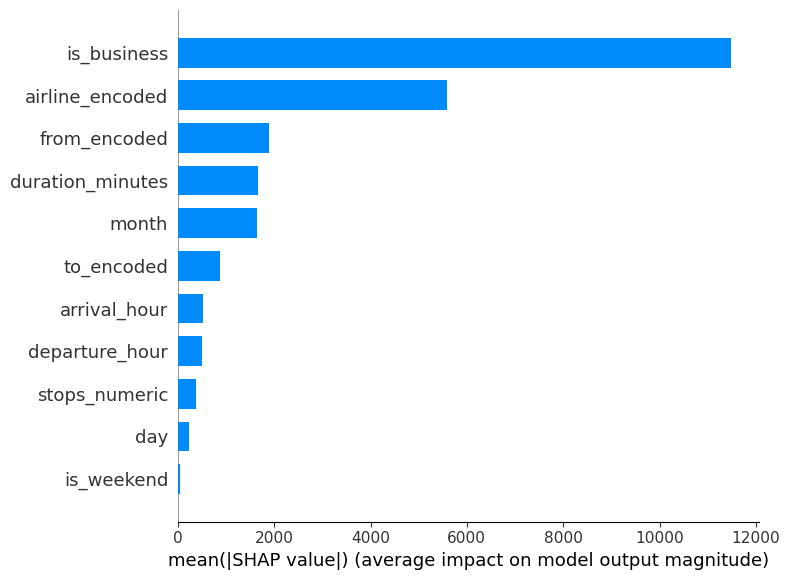
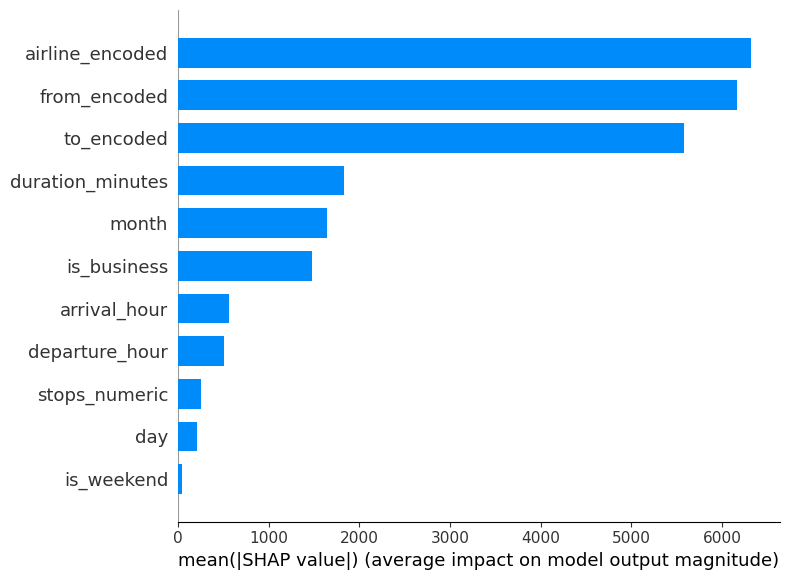
upload new changes

diff --git a/tests/test_trainer.py b/tests/test_trainer.py
@@ -1,15 +1,45 @@
-# tests/test_trainer.py
-
 import numpy as np
 import pandas as pd
 import pytest
-
+from unittest.mock import MagicMock, patch
 from flight_predictor.trainer import ModelTrainer
 
 
+# ── Fake config module 
+# Simulates what configs.lightgbm would provide
+# This lets us test ModelTrainer without needing real config files
+
+class FakeModel:
+    """Minimal model that records fit calls and returns fixed predictions."""
+
+    def __init__(self):
+        self.fitted = False
+
+    def fit(self, X, y):
+        self.fitted = True
+        return self
+
+    def predict(self, X):
+        # always predict 5000.0 — fixed value we control
+        return np.full(len(X), 5000.0)
+
+
+def fake_build_model(trial):
+    """Fake build_model — ignores trial params, returns FakeModel."""
+    return FakeModel()
+
+
+def fake_fit_model(model, X_train, y_train, X_val, y_val):
+    """Fake fit_model — calls fit and returns model."""
+    model.fit(X_train, y_train)
+    return model
+
+
+# ── Fixtures 
+
 @pytest.fixture
 def small_data():
-    """Small but realistic data to train a quick LightGBM model."""
+    """200 rows of random but realistic flight features."""
     np.random.seed(42)
     n = 200
 
@@ -29,90 +59,152 @@ def small_data():
 
     y = pd.Series(np.random.uniform(1000, 120000, n))
 
-    # split into train and val
     X_train, X_val = X.iloc[:160], X.iloc[160:]
     y_train, y_val = y.iloc[:160], y.iloc[160:]
 
     return X_train, X_val, y_train, y_val
 
 
-def test_model_exists_after_training(small_data, tmp_path):
[email redacted]
+def fake_config():
+    """A mock config module with build_model and fit_model."""
+    config = MagicMock()
+    config.build_model.side_effect = fake_build_model
+    config.fit_model.side_effect = fake_fit_model
+    return config
+
+
[email redacted]
+def trainer(fake_config):
+    """ModelTrainer with lightgbm name but fake config injected."""
+    with patch("importlib.import_module", return_value=fake_config):
+        t = ModelTrainer(model_name="lightgbm", models_dir="/tmp/test_models")
+    return t
+
+
+# ── __init__ tests 
+
+def test_unknown_model_raises_value_error():
+    with pytest.raises(ValueError, match="Unknown model"):
+        ModelTrainer(model_name="random_forest")
+
+
+def test_known_models_do_not_raise():
+    for name in ["lightgbm", "xgboost", "catboost", "linear"]:
+        with patch("importlib.import_module", return_value=MagicMock()):
+            trainer = ModelTrainer(model_name=name)
+            assert trainer.model_name == name
+
+
+def test_initial_state_is_none(trainer):
+    assert trainer.model is None
+    assert trainer.best_params is None
+    assert trainer.best_trial is None
+
+
+# ── train() tests 
+
+def test_model_exists_after_training(trainer, small_data):
     X_train, X_val, y_train, y_val = small_data
-    trainer = ModelTrainer(models_dir=str(tmp_path))
-    trainer.train(X_train, y_train, X_val, y_val)
+    with patch("mlflow.start_run"):
+        trainer.train(X_train, y_train, X_val, y_val)
     assert trainer.model is not None
 
 
-def test_best_params_exist_after_training(small_data, tmp_path):
+def test_best_params_exist_after_training(trainer, small_data):
     X_train, X_val, y_train, y_val = small_data
-    trainer = ModelTrainer(models_dir=str(tmp_path))
-    trainer.train(X_train, y_train, X_val, y_val)
+    with patch("mlflow.start_run"):
+        trainer.train(X_train, y_train, X_val, y_val)
     assert trainer.best_params is not None
     assert isinstance(trainer.best_params, dict)
 
 
-def test_best_params_has_correct_keys(small_data, tmp_path):
+def test_best_trial_exists_after_training(trainer, small_data):
     X_train, X_val, y_train, y_val = small_data
-    trainer = ModelTrainer(models_dir=str(tmp_path))
-    trainer.train(X_train, y_train, X_val, y_val)
-    expected_keys = [
-        "learning_rate", "max_depth", "num_leaves",
-        "subsample", "colsample_bytree", "reg_alpha", "reg_lambda"
-    ]
-    for key in expected_keys:
-        assert key in trainer.best_params
+    with patch("mlflow.start_run"):
+        trainer.train(X_train, y_train, X_val, y_val)
+    assert trainer.best_trial is not None
 
 
-def test_model_can_predict_after_training(small_data, tmp_path):
+def test_best_params_matches_best_trial_params(trainer, small_data):
     X_train, X_val, y_train, y_val = small_data
-    trainer = ModelTrainer(models_dir=str(tmp_path))
-    trainer.train(X_train, y_train, X_val, y_val)
+    with patch("mlflow.start_run"):
+        trainer.train(X_train, y_train, X_val, y_val)
+    assert trainer.best_params == trainer.best_trial.params
+
+
+# ── predict tests 
+
+def test_model_can_predict_after_training(trainer, small_data):
+    X_train, X_val, y_train, y_val = small_data
+    with patch("mlflow.start_run"):
+        trainer.train(X_train, y_train, X_val, y_val)
     preds = trainer.model.predict(X_val)
     assert len(preds) == len(X_val)
 
 
-def test_predictions_are_positive(small_data, tmp_path):
+def test_predictions_are_positive(trainer, small_data):
     X_train, X_val, y_train, y_val = small_data
-    trainer = ModelTrainer(models_dir=str(tmp_path))
-    trainer.train(X_train, y_train, X_val, y_val)
+    with patch("mlflow.start_run"):
+        trainer.train(X_train, y_train, X_val, y_val)
     preds = trainer.model.predict(X_val)
     assert (preds > 0).all()
 
 
-def test_model_saved_to_disk(small_data, tmp_path):
+# ── save() / load() tests 
+
+def test_default_filename_uses_model_name(trainer, small_data, tmp_path):
     X_train, X_val, y_train, y_val = small_data
-    trainer = ModelTrainer(models_dir=str(tmp_path))
-    trainer.train(X_train, y_train, X_val, y_val)
+    trainer.models_dir = tmp_path
+    with patch("mlflow.start_run"):
+        trainer.train(X_train, y_train, X_val, y_val)
     trainer.save()
-    assert (tmp_path / "tuned_lgb_model.joblib").exists()
+    assert (tmp_path / "lightgbm_model.joblib").exists()
 
 
-def test_model_loaded_from_disk(small_data, tmp_path):
+def test_custom_filename_respected(trainer, small_data, tmp_path):
     X_train, X_val, y_train, y_val = small_data
+    trainer.models_dir = tmp_path
+    with patch("mlflow.start_run"):
+        trainer.train(X_train, y_train, X_val, y_val)
+    trainer.save(filename="my_custom_model.joblib")
+    assert (tmp_path / "my_custom_model.joblib").exists()
 
-    # train and save
-    trainer = ModelTrainer(models_dir=str(tmp_path))
-    trainer.train(X_train, y_train, X_val, y_val)
+
+def test_models_dir_created_if_missing(trainer, small_data, tmp_path):
+    X_train, X_val, y_train, y_val = small_data
+    trainer.models_dir = tmp_path / "does" / "not" / "exist"
+    with patch("mlflow.start_run"):
+        trainer.train(X_train, y_train, X_val, y_val)
+    trainer.save()
+    assert trainer.models_dir.exists()
+
+
+def test_model_loaded_from_disk(trainer, small_data, tmp_path):
+    X_train, X_val, y_train, y_val = small_data
+    trainer.models_dir = tmp_path
+    with patch("mlflow.start_run"):
+        trainer.train(X_train, y_train, X_val, y_val)
     trainer.save()
 
     # load into a brand new trainer instance
-    new_trainer = ModelTrainer(models_dir=str(tmp_path))
+    with patch("importlib.import_module", return_value=trainer.config):
+        new_trainer = ModelTrainer(model_name="lightgbm", models_dir=str(tmp_path))
     new_trainer.load()
-
     assert new_trainer.model is not None
 
 
-def test_loaded_model_predictions_match(small_data, tmp_path):
+def test_loaded_model_predictions_match(trainer, small_data, tmp_path):
     X_train, X_val, y_train, y_val = small_data
+    trainer.models_dir = tmp_path
+    with patch("mlflow.start_run"):
+        trainer.train(X_train, y_train, X_val, y_val)
 
-    # train, save, get original predictions
-    trainer = ModelTrainer(models_dir=str(tmp_path))
-    trainer.train(X_train, y_train, X_val, y_val)
     original_preds = trainer.model.predict(X_val)
     trainer.save()
 
-    # load and predict again
-    new_trainer = ModelTrainer(models_dir=str(tmp_path))
+    with patch("importlib.import_module", return_value=trainer.config):
+        new_trainer = ModelTrainer(model_name="lightgbm", models_dir=str(tmp_path))
     new_trainer.load()
     loaded_preds = new_trainer.model.predict(X_val)
 

diff --git a/api/schemas.py b/api/schemas.py
@@ -1,6 +1,8 @@
 from typing import Literal
-
+import os
 from pydantic import BaseModel, Field
+
+MODEL_NAME  = os.getenv("MODEL_NAME", "lightgbm_model")
 
 
 class FlightInput(BaseModel):
@@ -40,7 +42,7 @@ class FlightInput(BaseModel):
 class PredictionOutput(BaseModel):
     predicted_price: float
     currency: str = "INR"
-    model_version: str = "tunded_lgb"
+    model_version: str = f"{MODEL_NAME}"
 
 
 class BatchFlightInput(BaseModel):
@@ -51,7 +53,7 @@ class BatchPredictionOutput(BaseModel):
     predictions: list[float]
     count: int
     currency: str = "INR"
-    model_version: str = "tunded_lgb"
+    model_version: str = f"{MODEL_NAME}"
 
 
 class HealthResponse(BaseModel):

diff --git a/tests/test_feature_engineer.py b/tests/test_feature_engineer.py
@@ -1,5 +1,3 @@
-# tests/test_feature_engineer.py
-
 import pandas as pd
 import pytest
 
@@ -44,12 +42,6 @@ def test_date_column_dropped(sample_df):
     result = FeatureEngineer().fit_transform(sample_df)
     assert "date" not in result.columns
 
-
-def test_existing_columns_preserved(sample_df):
-    result = FeatureEngineer().fit_transform(sample_df)
-    for col in ["stops_numeric", "duration_minutes", "departure_hour",
-                "arrival_hour", "is_business", "price"]:
-        assert col in result.columns
 
 
 def test_original_dataframe_not_modified(sample_df):

diff --git a/tests/test_target_encoder.py b/tests/test_target_encoder.py
@@ -105,11 +105,3 @@ def test_unseen_category_returns_none(sample_data):
     result = encoder.transform(df_new)
     assert result["airline_encoded"].isna().all()
 
-
-def test_fit_does_not_mutate_input(sample_data):
-    df, y = sample_data
-    original_cols = df.columns.tolist()
-    encoder = TargetEncoder()
-    encoder.fit(df, y)
-
-    assert df.columns.tolist() == original_cols

diff --git a/tests/test_preprocessor.py b/tests/test_preprocessor.py
@@ -1,5 +1,3 @@
-# tests/test_preprocessor.py
-
 import pandas as pd
 import pytest
 
@@ -71,11 +69,6 @@ def test_dirty_columns_dropped(sample_df):
     result = Preprocessor().fit_transform(sample_df)
     for col in ["ch_code", "num_code", "time_taken", "dep_time", "arr_time", "stop"]:
         assert col not in result.columns
-
-
-def test_date_column_preserved(sample_df):
-    result = Preprocessor().fit_transform(sample_df)
-    assert "date" in result.columns
 
 
 def test_original_dataframe_not_modified(sample_df):

diff --git a/tests/test_evaluator.py b/tests/test_evaluator.py
@@ -1,5 +1,3 @@
-# tests/test_evaluator.py
-
 import numpy as np
 import pandas as pd
 import pytest